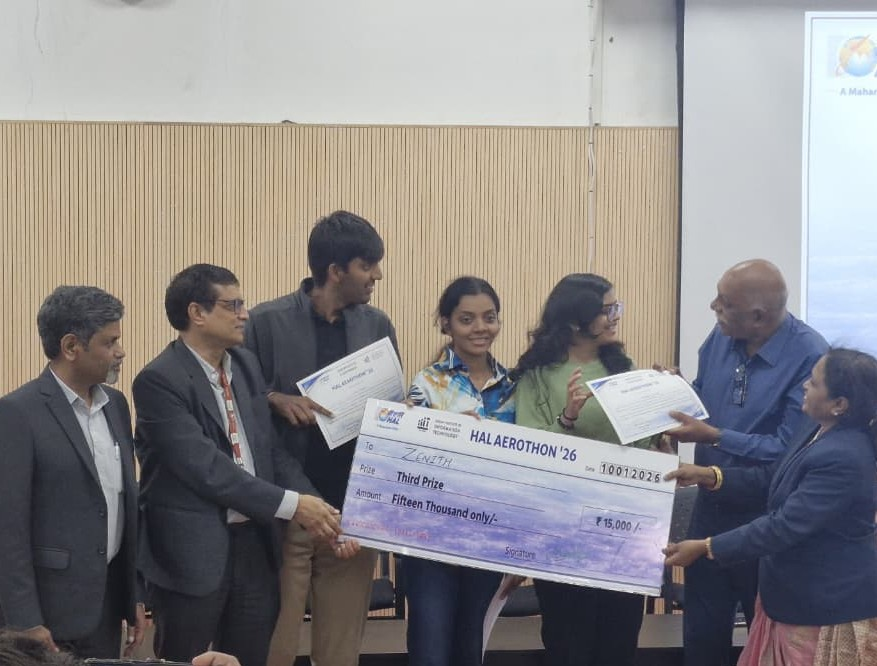
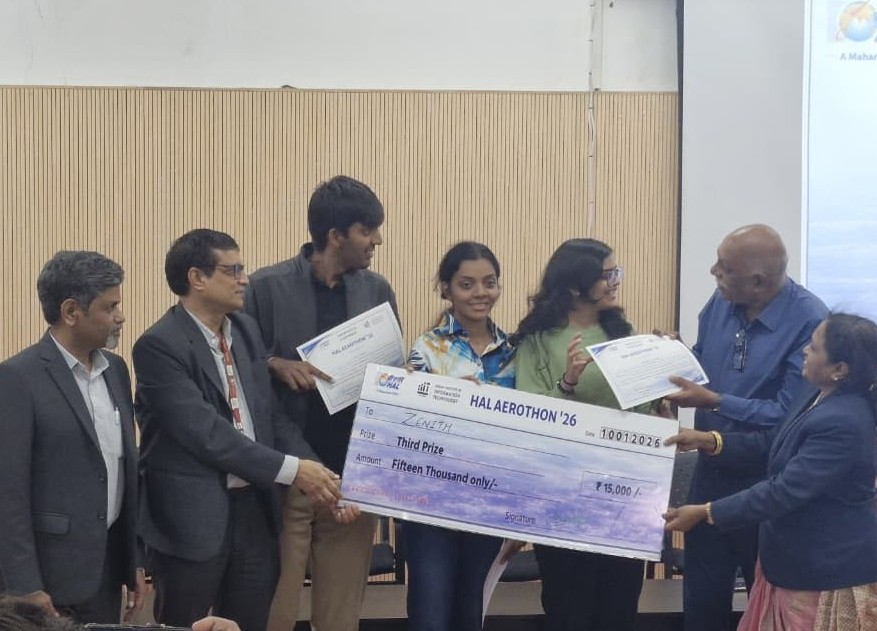
Train the detector at the dataset's native 640px, not an upscaled 800
torchvision's detection models resize their input to 800px by default. Both
damage datasets are smaller than that -- v2 is 640x640, v4 smaller still -- so
the default was upscaling every image and paying for resolution that was never
captured.

Add --img-size, defaulting to 640. Measured on an RTX 4070 Laptop over ten
training steps each:

    batch 4, 800px (old default)   1.04 s/step   6.11 GB VRAM   22.9 min/epoch
    batch 4, 640px                 0.48 s/step   2.03 GB VRAM   10.5 min/epoch
    batch 6, 640px                 0.51 s/step   2.83 GB VRAM    7.5 min/epoch

Three times faster on less than half the memory, which also takes an 8 GB card
from "might OOM on a large image" to comfortable.

The module docstring previously said this was a Colab job. It is not: the
figures above are from a laptop GPU, and a full 25-epoch run is about three
hours there. Colab is now presented as the alternative rather than the
assumption.

diff --git a/backend/training/train_detector.py b/backend/training/train_detector.py
@@ -33,13 +33,23 @@ What this script changes
 
 Running it
 ----------
-This is a GPU job. On CPU it is impractically slow -- roughly 5,600 images per
+This is a GPU job. On CPU it is impractically slow -- 5,295 training images per
 epoch through a ResNet50-FPN.
 
-    python backend/training/train_detector.py --epochs 25 --batch-size 4
+    python backend/training/train_detector.py --epochs 25 --batch-size 6
 
-On Google Colab, mount the dataset and point --data at it. Check the device
-line in the output says cuda before leaving it running.
+Measured on an RTX 4070 Laptop (8 GB): 0.51 s/step at batch 6 and 640px, which
+is about 7.5 minutes per epoch and 2.8 GB of VRAM. A full 25-epoch run is
+therefore roughly three hours on that class of card.
+
+Note the --img-size default of 640. torchvision's detector resizes its input to
+800px by default, which UPSCALES this dataset and buys nothing: v2 is 640x640
+and v4 is smaller. Running at 640 measured 3x faster on less than half the
+VRAM.
+
+If you would rather not install CUDA locally, this runs unchanged on Google
+Colab -- mount the dataset and point --data at it. Either way, check that the
+device line in the output says cuda before leaving it running.
 """
 
 import argparse
@@ -255,6 +265,11 @@ def main():
     ap.add_argument("--batch-size", type=int, default=4)
     ap.add_argument("--lr", type=float, default=0.005)
     ap.add_argument("--workers", type=int, default=2)
+    ap.add_argument("--img-size", type=int, default=640,
+                    help="resolution the detector runs at. torchvision defaults "
+                         "to 800, which UPSCALES this dataset (v2 is 640x640, v4 "
+                         "smaller) and buys nothing. Measured on an RTX 4070: 640 "
+                         "is 3x faster and uses less than half the VRAM.")
     ap.add_argument("--out", type=Path,
                     default=BACKEND_DIR / "models" / "detector_remapped.pth")
     args = ap.parse_args()
@@ -266,6 +281,7 @@ def main():
         print("         CPU will take many hours. Consider Colab.")
 
     print(f"Label space ({NUM_CLASSES} classes): {CLASS_NAMES}")
+    print(f"Detector resolution: {args.img_size}px, batch {args.batch_size}")
 
     train_ds = build_splits(args.data, "train")
     val_ds = build_splits(args.data, "valid")
@@ -277,7 +293,10 @@ def main():
                             collate_fn=collate_fn, num_workers=args.workers)
 
     # COCO-pretrained weights, then a head sized to OUR label space.
-    model = fasterrcnn_resnet50_fpn(weights="DEFAULT")
+    # min_size/max_size pin the internal resize to the data's own resolution.
+    model = fasterrcnn_resnet50_fpn(weights="DEFAULT",
+                                    min_size=args.img_size,
+                                    max_size=args.img_size)
     in_features = model.roi_heads.box_predictor.cls_score.in_features
     model.roi_heads.box_predictor = FastRCNNPredictor(in_features, NUM_CLASSES)
     model.to(device)
